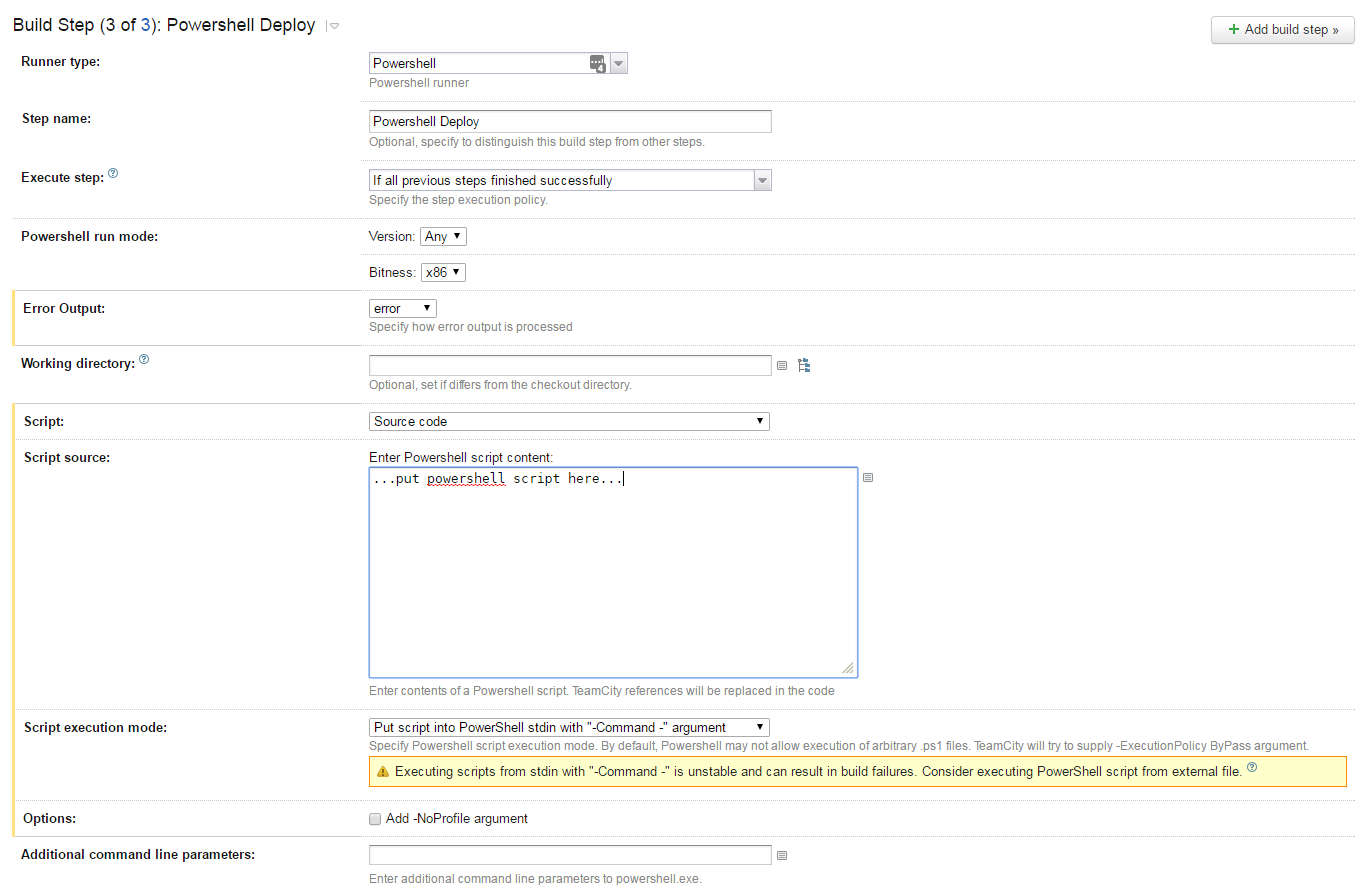
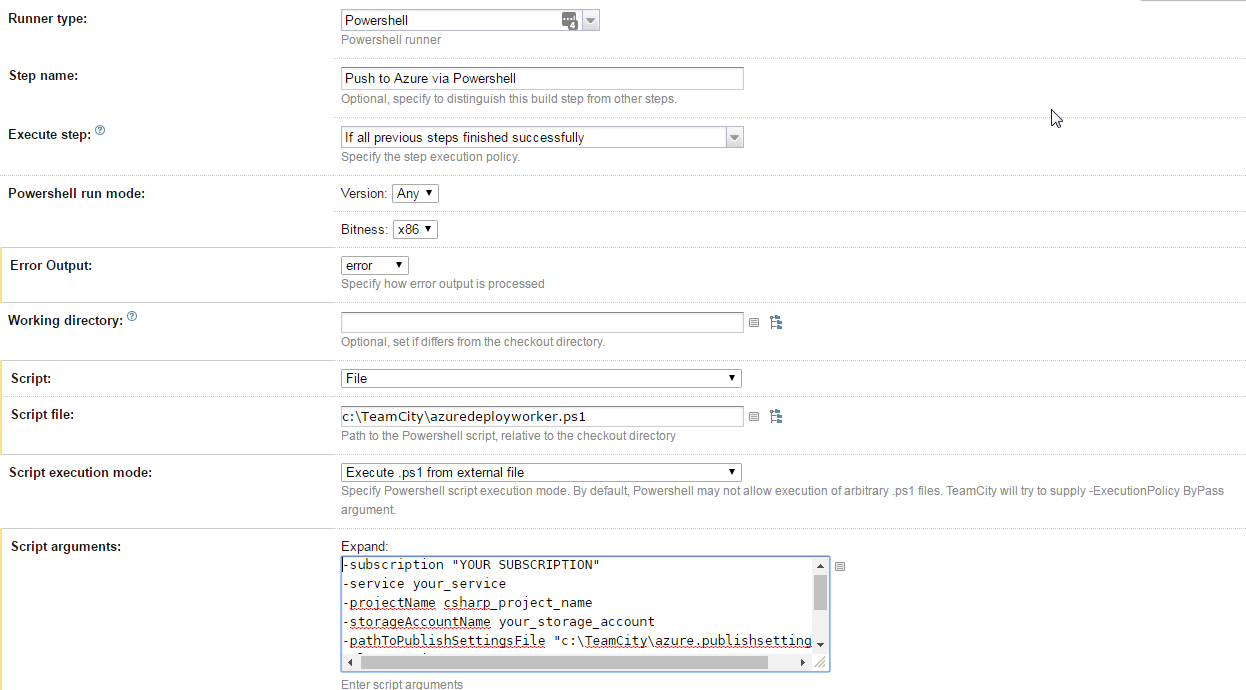
update to use an external powershell script file with arguments

diff --git a/_posts/2016-04-05-deploying-azure-worker-role-via-team-city.md b/_posts/2016-04-05-deploying-azure-worker-role-via-team-city.md
@@ -58,74 +58,135 @@ At this point, it should be obvious, that you want to keep your TeamCity server 
 
 
 ### PowerShell
-Finally, we need to define the PowerShell step; this part uses the commandlets you installed before via PowerShell script that will either create the new deployment if you've never deployed before OR will update the existing deployment.  This script is almost entirely from [Scott's blog](http://weblogs.asp.net/srkirkland/ci-deployment-of-azure-web-roles-using-teamcity) with the exception of a few minor mods to get it working with the current Azure SDK and commandlets.
+Next, we need to define the PowerShell step; this part uses the commandlets you installed before via PowerShell script that will either create the new deployment if you've never deployed before OR will update the existing deployment.  This script is almost entirely from [Scott's blog](http://weblogs.asp.net/srkirkland/ci-deployment-of-azure-web-roles-using-teamcity) with the exception of a few minor mods to get it working with the current Azure SDK and commandlets and to make it callable as an external script file.
 
-![msbuild publish](/images/deploy-worker-role-to-azure/powershell.png)
+![powershell deploy](/images/deploy-worker-role-to-azure/powershell.png)
 
-In the `Script Source` field you'll need to put your version of the following PowerShell script. You just have to update the first seven values to match your settings.  Then confirm the paths for the `Import-Module` commands.  Here is the script (or a [gist](https://gist.github.com/finalcut/db002990a0b083f4fa42d5a353250c5c) if you prefer).  I identified my changes to his script with the `::CHANGE::` prefix to a couple comments.  You'll see not much has changed.
+In the `Script` field keep "file" and in the script file field you'll need to put the path to the powershell script I've provided at the end of this post and in a [gist](https://gist.github.com/finalcut/db002990a0b083f4fa42d5a353250c5c).  You may need to edit the powershell script path to the imported modules if Azure Powershell changes after this is published.  As of 5 April 2016 those paths should be valid for the vast majority of installations.
+
+You'll need to expand the `Script Arguments` field so you can provide the various arguments.  There are nine possible but only the first five are required.
+
+** REQUIRED ARGUMENTS **
+* subscription - the name of your Azure subscription.  You can find that on your Azure Management Portal; on the All Items screen, in the Subscription column.
+* service - this is the Azure Cloud Service you're deploying/upgrading.  You can find that on your Azure Management Portal; on the All Items screen, in the Name column.
+* projectName - the name of your Visual Studio project that contains the "Role" - this is your startup project in the solution.
+* storageAccountName - the name of your Azure storage account that is tied to your service. You can find that on your Azure Management Portal; on the All Items screen, in the Name column.
+* pathToPublishSettingsFile - where you saved your publish settings.  In the earlier example that is `c:\TeamCity\azure.publishsettings`
+
+** OPTIONAL ARGUMENTS **
+* slot - production or staging.  default: staging
+* buildConfigName - release or debug.  default: release
+* timeStampFormat - look at the azure docs for formats.  default: g
+* deploymentLabel - how the deployment should be identified in the Azure management portal.  Default: Continuous Deploy.  I recommend overriding this to something like: "Continuous Deploy to $service v%build.number%" which will give you much more useful information in the portal.
+
+
+### Trigger a Failure in TeamCity
+According to the [TeamCity documentation](https://confluence.jetbrains.com/display/TCD9/PowerShell) you need to catch information in the build log to know if something went wrong.  The script facilitates that but throwing error messages proceeded by "POWERSHELL ERROR" and using an exit code of 1.  However, for these to be caught you need to set up a failure condition in TeamCity for your project.
+
+![powershell failure condition](/images/deploy-worker-role-to-azure/powershell-failure.png)
+
+
+
 
 ```posh
-#Modified and simplified version of https://www.windowsazure.com/en-us/develop/net/common-tasks/continuous-delivery/
-$subscription = "MY SUBSCRIPTION"  #not your subscription ID but the actual name of the subscription.
-$service = "MY SERVICE"
-$slot = "staging" #staging or production
-$projectName = "PROJECT IN SOLUTION WITH THE WORKER ROLE DEFINED"
-$buildConfigName = "release"  #debug or release...
-$storageAccountName = "MY AZURE STORAGE ACCOUNT NAME"
-$pathToPublishSettingsFile = "c:\TeamCity\azure.publishsettings"
-$deploymentLabel = "ContinuousDeploy to $service v%build.number%"
+[CmdletBinding()]
+Param(
+  [Parameter(Mandatory=$True,Position=1)]
+   [string]$subscription,
+
+   [Parameter(Mandatory=$True,Position=2)]
+   [string]$service,
+
+   [Parameter(Mandatory=$True,Position=3)]
+   [string]$projectName,
+
+   [Parameter(Mandatory=$True,Position=4)]
+   [string]$storageAccountName,
+
+   [Parameter(Mandatory=$True,Position=5)]
+   [string]$pathToPublishSettingsFile,
+
+
+   [Parameter(Mandatory=$False,Position=6)]
+   [string]$slot="staging",
+
+   [Parameter(Mandatory=$False,Position=7)]
+   [string]$buildConfigName="release",
+
+
+   [Parameter(Mandatory=$False,Position=8)]
+   [string]$timeStampFormat="g",
+
+
+   [Parameter(Mandatory=$False,Position=9)]
+   [string]$deploymentLabel="Continuous Deploy"
+
+)
 
 
 $package = "$($projectName)\bin\$($buildConfigName)\app.publish\$($projectName).cspkg"
 $configuration =  "$($projectName)\bin\$($buildConfigName)\app.publish\ServiceConfiguration.Cloud.cscfg"
-$timeStampFormat = "g"
+$errorKey = "POWERSHELL ERROR"
 
-Write-Output "Running Azure Imports"
-# ::CHANGE:: I had to update these as the stuff at Scotts blog was outdated
-Import-Module "C:\Program Files (x86)\Microsoft SDKs\Azure\PowerShell\ResourceManager\AzureResourceManager\AzureRM.Profile\AzureRM.Profile.psd1"
-Import-Module "C:\Program Files (x86)\Microsoft SDKs\Azure\PowerShell\Storage\Azure.Storage\Azure.Storage.psd1"
-Import-Module "C:\Program Files (x86)\Microsoft SDKs\Azure\PowerShell\ServiceManagement\Azure\Azure.psd1"
-
-# ::CHANGE:: I added variable for pathToPublishSettingsFile
-Import-AzurePublishSettingsFile $(pathToPublishSettingsFile)
-# ::CHANGE:: I had to add the $storageAccount name instead of using the $service here
-Set-AzureSubscription -CurrentStorageAccount $storageAccountName -SubscriptionName $subscription
-
-function Publish(){
- $deployment = Get-AzureDeployment -ServiceName $service -Slot $slot -ErrorVariable a -ErrorAction silentlycontinue
- Write-Output $deployment
-
- if ($a[0] -ne $null) {
-    Write-Output "$(Get-Date -f $timeStampFormat) - No deployment is detected. Creating a new deployment. "
- }
-
- if ($deployment.Name -ne $null) {
-    #Update deployment inplace (usually faster, cheaper, won't destroy VIP)
-    Write-Output "$(Get-Date -f $timeStampFormat) - Deployment exists in $servicename.  Upgrading deployment."
-    UpgradeDeployment
- } else {
-    CreateNewDeployment
- }
+Write-Host "Running Azure Imports"
+try {
+  Import-Module "C:\Program Files (x86)\Microsoft SDKs\Azure\PowerShell\ResourceManager\AzureResourceManager\AzureRM.Profile\AzureRM.Profile.psd1"
+  Import-Module "C:\Program Files (x86)\Microsoft SDKs\Azure\PowerShell\Storage\Azure.Storage\Azure.Storage.psd1"
+  Import-Module "C:\Program Files (x86)\Microsoft SDKs\Azure\PowerShell\ServiceManagement\Azure\Azure.psd1"
+} Catch {
+  $ErrorMessage = $_.Exception.Message
+  Write-Host $errorKey
+  Write-Host "Error Importing Modules"
+  Write-Host $ErrorMessage
+  exit(1)
 }
+
+
+# import settings
+Write-Host "Import Settings File"
+try {
+  Import-AzurePublishSettingsFile $pathToPublishSettingsFile
+} Catch {
+  $ErrorMessage = $_.Exception.Message
+  Write-Host $errorKey
+  Write-Host "Error Importing Publish Settings File"
+  Write-Host $ErrorMessage
+  exit(1)
+}
+
+#setup azure information
+Write-Host "Setup Azure Subscription Information"
+try {
+  Set-AzureSubscription -CurrentStorageAccount $storageAccountName -SubscriptionName $subscription
+} Catch {
+  $ErrorMessage = $_.Exception.Message
+  Write-Host $errorKey
+  Write-Host "Error Setting Azure Subscription"
+  Write-Host $ErrorMessage
+  exit(1)
+}
+
+
+# DEFINE FUNCTIONS
 
 function CreateNewDeployment()
 {
-    write-progress -id 3 -activity "Creating New Deployment" -Status "In progress"
-    Write-Output "$(Get-Date -f $timeStampFormat) - Creating New Deployment: In progress"
+    Write-Host -id 3 -activity "Creating New Deployment" -Status "In progress"
+    Write-Host "$(Get-Date -f $timeStampFormat) - Creating New Deployment: In progress"
 
     $opstat = New-AzureDeployment -Slot $slot -Package $package -Configuration $configuration -label $deploymentLabel -ServiceName $service
 
     $completeDeployment = Get-AzureDeployment -ServiceName $service -Slot $slot
     $completeDeploymentID = $completeDeployment.deploymentid
 
-    write-progress -id 3 -activity "Creating New Deployment" -completed -Status "Complete"
-    Write-Output "$(Get-Date -f $timeStampFormat) - Creating New Deployment: Complete, Deployment ID: $completeDeploymentID"
+    Write-Host -id 3 -activity "Creating New Deployment" -completed -Status "Complete"
+    Write-Host "$(Get-Date -f $timeStampFormat) - Creating New Deployment: Complete, Deployment ID: $completeDeploymentID"
 }
 
 function UpgradeDeployment()
 {
-    write-progress -id 3 -activity "Upgrading Deployment" -Status "In progress"
-    Write-Output "$(Get-Date -f $timeStampFormat) - Upgrading Deployment: In progress"
+    Write-Host -id 3 -activity "Upgrading Deployment" -Status "In progress"
+    Write-Host "$(Get-Date -f $timeStampFormat) - Upgrading Deployment: In progress"
 
     # perform Update-Deployment
     $setdeployment = Set-AzureDeployment -Upgrade -Slot $slot -Package $package -Configuration $configuration -label $deploymentLabel -ServiceName $service -Force
@@ -133,12 +194,48 @@ function UpgradeDeployment()
     $completeDeployment = Get-AzureDeployment -ServiceName $service -Slot $slot
     $completeDeploymentID = $completeDeployment.deploymentid
 
-    write-progress -id 3 -activity "Upgrading Deployment" -completed -Status "Complete"
-    Write-Output "$(Get-Date -f $timeStampFormat) - Upgrading Deployment: Complete, Deployment ID: $completeDeploymentID"
+    Write-Host -id 3 -activity "Upgrading Deployment" -completed -Status "Complete"
+    Write-Host "$(Get-Date -f $timeStampFormat) - Upgrading Deployment: Complete, Deployment ID: $completeDeploymentID"
 }
 
-Write-Output "Create Azure Deployment"
+
+function Publish(){
+ $deployment = Get-AzureDeployment -ServiceName $service -Slot $slot -ErrorVariable a -ErrorAction silentlycontinue
+ Write-Host $deployment
+
+ if ($a[0] -ne $null) {
+    Write-Host "$(Get-Date -f $timeStampFormat) - No deployment is detected. Creating a new deployment. "
+ }
+
+ if ($deployment.Name -ne $null) {
+    #Update deployment inplace (usually faster, cheaper, won't destroy VIP)
+    Write-Host "$(Get-Date -f $timeStampFormat) - Deployment exists in $servicename.  Upgrading deployment."
+
+    try {
+      UpgradeDeployment
+    } catch {
+      $ErrorMessage = $_.Exception.Message
+      Write-Host $errorKey
+      Write-Host "Error Upgrading Deployment"
+      Write-Host $ErrorMessage
+      exit(1)
+    }
+ } else {
+    try {
+      CreateNewDeployment
+    } catch {
+      $ErrorMessage = $_.Exception.Message
+      Write-Host $errorKey
+      Write-Host "Error Upgrading Deployment"
+      Write-Host $ErrorMessage
+      exit(1)
+    }
+ }
+}
+
 Publish
+
+Exit(0)
 ```
 
-At this point you should be able to run your build on TeamCity and see that your worker role has been deployed properly.  You can always tell by viewing the build log on TeamCity and by going to your Cloud Service "Dashboard" on the Azure Management Portal and looking in the right column for "Deployment Label"  It should say something like `ContinuousDeploy to MyService v39` which is the value defined in the above script as `$deploymentLabel`.
+At this point you should be able to run your build on TeamCity and see that your worker role has been deployed properly.  You can always tell by viewing the build log on TeamCity and by going to your Cloud Service "Dashboard" on the Azure Management Portal and looking in the right column for "Deployment Label"  It should say something like `Continuous Deploy to MyService v39` or whatever value you  defined for the  `deploymentLabel` argument.
